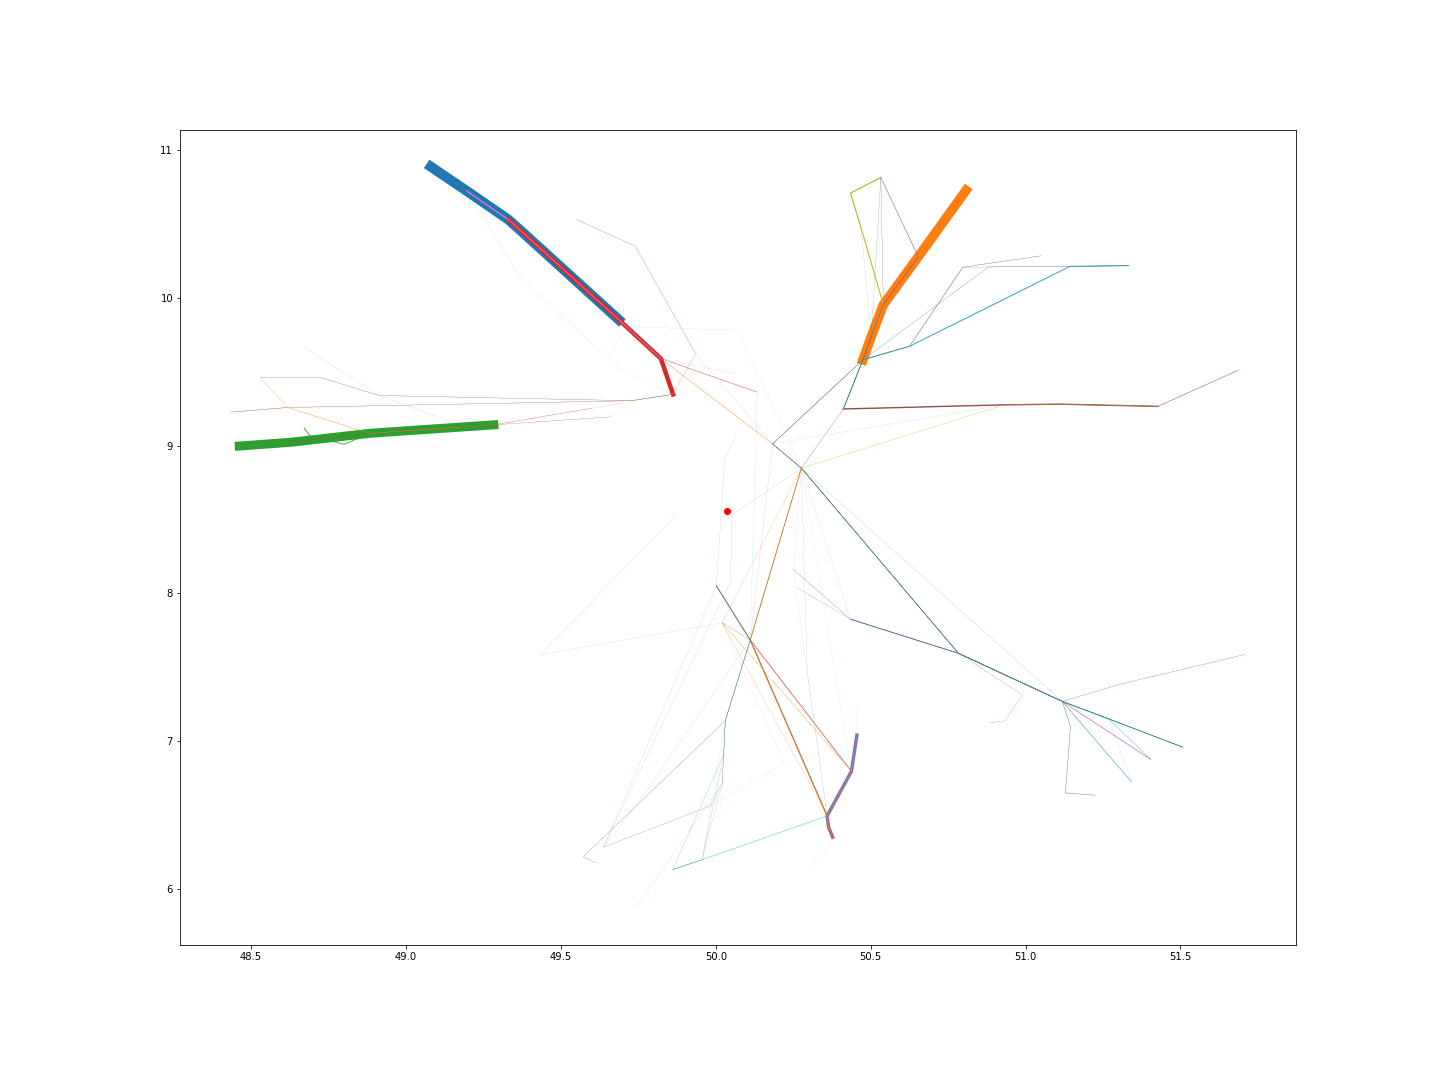
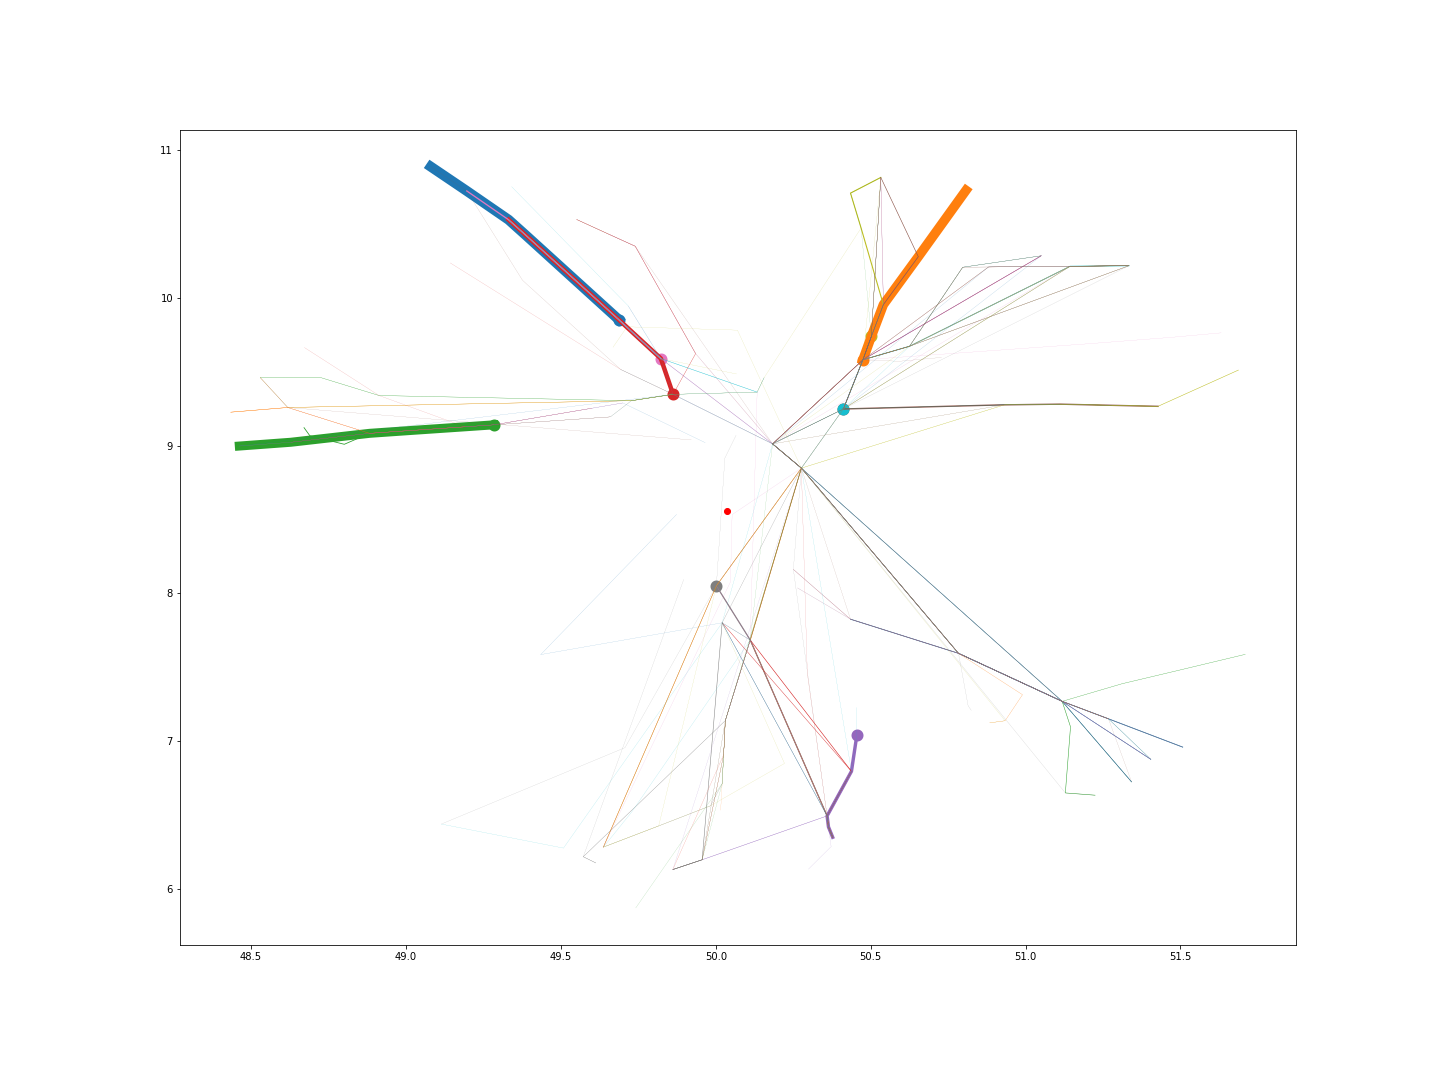
works

diff --git a/trajectory_study.py b/trajectory_study.py
@@ -3,6 +3,7 @@ import numpy as np
 from geopy.distance import geodesic
 import matplotlib.pyplot as plt
 import functions as fun
+import data as da
 
 
 df_ar=pd.read_csv("../data/arrivi_1709.csv")
@@ -34,126 +35,34 @@ df_entry_day1["coor"]=coordinate
 df_entry_day1.shape[0]
 
 p= df_entry_day1.to_csv (r'../data/ppt.csv', index = None, header=True)
-
+df_entry_day1
 """
 Ora procedo con la costruzione del dataset: in questo dataset ci saranno le traiettorie_13_09
 relative ai voli avvenuti il giorno 13 settembre nell'aereoporto di Frankfurt.
 Per semplicità (da migliorare) consideriamo solo i flight con più di 5 waypoint e
 consideriamo solo i primi 5 waypoint [ai fini del tempo è importante il primo]
 """
-df_traj=pd.DataFrame(columnfor i in range(coord_traj.shape[0]):
-    plt.plot(coordinate_x[i,:],coordinate_y[i,:],linewidth=num_percorsi[i]/10,label = "trajectory"+str(i))
-plt.scatter(50.037753, 8.560964,color="red")
-#plt.legend()
-plt.show()s=['flight','wp1','wp2','wp3','wp4','wp5','t1','t2','t3','t4','t5'])
+
+
 i = 0
 names=['flight','wp1','wp2','wp3','wp4','wp5','t1','t2','t3','t4','t5']
-while(i<df_entry_day1.shape[0]-1):
-    aereo = df_entry_day1.iloc[i]["ifps_id"]
-    row=[aereo,'None','None','None','None','None','None','None','None','None','None']
-    print("lavoriamo su questo aereo: ",aereo)
-    cont = 1  # numero di stack relative a questo aereoporto
-    j = i #da cove iniziamo a contare
-    while(cont<=4 and aereo == df_entry_day1.iloc[j+1]["ifps_id"]):
-        j = j+1 # andiamo avanti di un indice
-        cont =cont+1 #contiamo gli stack
-    print(cont)
-    if(cont==5):
-        for k in range(cont):
-            #print("k: ",k)
-            #print("i+j-k-1",i+j-k-1)
-            row[1+k] = df_entry_day1.iloc[i+cont-k-1]["sid"]
-            row[1+k+5]=df_entry_day1.iloc[i+cont-k-1]["time"]
-        df_traj=df_traj.append(dict(zip(names,row)),ignore_index = True)
-        i=j
-        while (i<=df_entry_day1.shape[0]-2 and df_entry_day1.iloc[i]["ifps_id"]==df_entry_day1.iloc[i+1]["ifps_id"]):
-            i+=1
-        i+=1
-    else:
-        i=j
-        #while (i<=df_entry_day1.shape[0]-2 and df_entry_day1.iloc[i]["ifps_id"]==df_entry_day1.iloc[i+1]["ifps_id"]):
-        #    i+=1
-        i+=1
-    print(i)
+df_traj = da.creation_data_waypoint(df_entry_day1,names)
+df_traj
+
+
+
+
 
 
 """
 Al dataset creato aggiungo gli arrivi, contenuti nel dataset df_ar
 """
-df_traj
-Frankfurt_cond = df_ar["D"]=="EDDF"
-df_ar_frank = df_ar[Frankfurt_cond]
-df_ar_frank
+arr = pd.read_csv("../data/arr_frankfurt_13_09_17.csv")
 
+arr
+df_traj = da.arrival_matching(df_traj,arr)
 
-arr_date = []
-arr_land = []
-for i in range(df_ar_frank.shape[0]):
-    temp = df_ar_frank.iloc[i]["arr_time"]
-    temp=temp.split(" ")
-    arr_date.append(temp[0])
-    arr_land.append(temp[1])
-
-
-df_ar_frank["date"]=arr_date
-df_ar_frank["time"]=arr_land
-
-df_ar_frank
-
-df_ar_frank= df_ar_frank.drop(columns=["O","arr_time"])
-
-df_ar_frank.rename(columns={'ifps_id':'flight'},inplace=True)
-
-date_condition = df_ar_frank["date"]=="2017-09-13"
-df_ar_frank_day1 = df_ar_frank[date_condition]
-
-
-df_ar_frank_day1
-
-
-arr_frankfurt_13_09_17 = df_ar_frank_day1.to_csv(r'../data/arr_frankfurt_13_09_17.csv',index = None, header=True)
-
-
-
-arrivi = [] # non so se serve però intanto lo metto
-arrivi
-voli = []
-#ora la parte più difficile
-for i in range(df_traj.shape[0]):
-    flight = df_traj.iloc[i]["flight"]
-    cont = 0
-    for j in range(df_ar_frank_day1.shape[0]):
-        aereo = df_ar_frank_day1.iloc[j]["flight"]
-        if(aereo==flight):
-            cont = 1
-            temp = df_ar_frank_day1.iloc[j]["time"]
-            arrivi.df_ar.iloc[i]["date"]append(temp)
-    if(cont==0):
-        arrivi.append("None")
-
-    print(cont)
-
-df_traj["arrival"] = arrivi
-
-
-df_traj
-
-arrivi = df_traj.to_csv(r'../data/arrivi_13_09.csv',index = None, header=True)
-
-#controllo
-"""
-for i in range(df_traj.shape[0]):
-    if(df_traj.iloc[i]["arrival"]!="None"):
-        b = fun.time_to_sec(df_traj.iloc[i]["arrival"])
-        a = fun.time_to_sec(df_traj.iloc[i]["t1"])
-        if(b-a<0):
-            print("problema alla riga ",i)
-    else:
-        continue
-"""
-
-
-#df_traj rappresenta i primi 5 waypoints e i vari tempi
+#df_traj rappresenta i primi 5 waypoints e i vari tempi + tempo arrivo
 #ora aggiungo le tempistiche
 tempistiche = []
 for i in  range(df_traj.shape[0]):
@@ -168,11 +77,7 @@ for i in  range(df_traj.shape[0]):
 
 "aggiungo anche i tempi di arrivo"
 df_traj["tempi di arrivo"] = tempistiche
-
-######################################
-
 df_traj
-
 traiettorie_13_09 = df_traj.to_csv(r'../data/traiettorie_13_09.csv',index = None, header=True)
 
 none_cond = df_traj["arrival"]!="None"
@@ -213,19 +118,13 @@ tr_dict
 
 percorsi = list(tr_dict.keys()) #lista di tutte le pox traiettorie
 num_percorsi = list(tr_dict.values()) #lista del numero di volte in cui le traiettorie si presentano
-num_percorsi
 len(percorsi)
-
+num_percorsi
 """
 Ora creo un dict,chiamato wp_coord, che ha come chiavi tutti i pox waypoints
 e come valori le loro coordinate
 """
-
 wp_coord ={}
-
-#riprendo il dataframe  df_entry_day1
-df_entry_day1["sid"]plt.savefig('foo.png')
-
 for i in range(df_entry_day1.shape[0]):
     sid = df_entry_day1.iloc[i]["sid"]
     if sid not in wp_coord:
@@ -287,24 +186,113 @@ coordinate_y = np.zeros((coord_traj.shape[0],5))
 #provo a plottare tutti i perorsi
 for i in range(coord_traj.shape[0]):
     tr = coord_traj.iloc[i]
-    coordinate_x[i,0]=tr["coord1"][0]
-    coordinate_x[i,1]=tr["coord2"][0]
-    coordinate_x[i,2]=tr["coord3"][0]
-    coordinate_x[i,3]=tr["coord4"][0]
-    coordinate_x[i,4]=tr["coord5"][0]
-    coordinate_y[i,0]=tr["coord1"][1]
-    coordinate_y[i,1]=tr["coord2"][1]
-    coordinate_y[i,2]=tr["coord3"][1]
-    coordinate_y[i,3]=tr["coord4"][1]
-    coordinate_y[i,4]=tr["coord5"][1]
+    if(tr["wp1"]!="None" and tr["wp2"]!="None" and tr["wp3"]!="None" and tr["wp4"]!="None" and tr["wp5"]!="None"):
+        coordinate_x[i,0]=tr["coord1"][0]
+        coordinate_x[i,1]=tr["coord2"][0]
+        coordinate_x[i,2]=tr["coord3"][0]
+        coordinate_x[i,3]=tr["coord4"][0]
+        coordinate_x[i,4]=tr["coord5"][0]
+        coordinate_y[i,0]=tr["coord1"][1]
+        coordinate_y[i,1]=tr["coord2"][1]
+        coordinate_y[i,2]=tr["coord3"][1]
+        coordinate_y[i,3]=tr["coord4"][1]
+        coordinate_y[i,4]=tr["coord5"][1]
 
+    if(tr["wp1"]!="None" and tr["wp2"]!="None" and tr["wp3"]!="None" and
+        tr["wp4"]!="None" and tr["wp5"]=="None"):
+        coordinate_x[i,0]=tr["coord1"][0]
+        coordinate_x[i,1]=tr["coord2"][0]
+        coordinate_x[i,2]=tr["coord3"][0]
+        coordinate_x[i,3]=tr["coord4"][0]
+
+        coordinate_y[i,0]=tr["coord1"][1]
+        coordinate_y[i,1]=tr["coord2"][1]
+        coordinate_y[i,2]=tr["coord3"][1]
+        coordinate_y[i,3]=tr["coord4"][1]
+
+    if(tr["wp1"]!="None" and tr["wp2"]!="None" and tr["wp3"]!="None" and
+        tr["wp4"]=="None" and tr["wp5"]=="None"):
+        coordinate_x[i,0]=tr["coord1"][0]
+        coordinate_x[i,1]=tr["coord2"][0]
+        coordinate_x[i,2]=tr["coord3"][0]
+
+
+        coordinate_y[i,0]=tr["coord1"][1]
+        coordinate_y[i,1]=tr["coord2"][1]
+        coordinate_y[i,2]=tr["coord3"][1]
+
+    else:
+        continue
+
+tr_dict
+wp_coord
+
+
+"""
+************************************
+"""
+"""
+PUNTI IMPORTANTI
+"""
+
+"""
+**************************************
+"""
+
+lista_traiet = list(tr_dict.keys())
+lista_traiet
+wp_imp = []
+for i in range(10):
+    temp = lista_traiet[i]
+    temp = temp.replace("-"," ")
+    temp = temp.split(" ")
+    wp_imp.append(temp[0])
+print("*****")
+wp_imp
+coord_imp = []
+for i in range(len(wp_imp)):
+    coord_imp.append(wp_coord[wp_imp[i]])
+
+entrance_dict = dict(zip(wp_imp,coord_imp))
+entrance_dict
+entrance_dict['KERAX'][0]
+
+
+coordinate_x[1,:]
+coordinate_x[1,:-2]
 plt.figure(figsize=(20,15))
 for i in range(coord_traj.shape[0]):
-    plt.plot(coordinate_x[i,:],coordinate_y[i,:],linewidth=num_percorsi[i]/10,label = "trajectory"+str(i))
+    tr = coord_traj.iloc[i]
+    if(i<3):
+        if(tr["wp1"]!="None" and tr["wp2"]!="None" and tr["wp3"]!="None" and tr["wp4"]!="None" and tr["wp5"]!="None"):
+            plt.plot(coordinate_x[i,:],coordinate_y[i,:],linewidth=num_percorsi[i]/10,label = "trajectory "+str(i))
+
+        if(tr["wp1"]!="None" and tr["wp2"]!="None" and tr["wp3"]!="None" and
+            tr["wp4"]!="None" and tr["wp5"]=="None"):
+                plt.plot(coordinate_x[i,:-1],coordinate_y[i,:-1],linewidth=num_percorsi[i]/10)
+        if(tr["wp1"]!="None" and tr["wp2"]!="None" and tr["wp3"]!="None" and
+            tr["wp4"]=="None" and tr["wp5"]=="None"):
+                plt.plot(coordinate_x[i,:-2],coordinate_y[i,:-2],linewidth=num_percorsi[i]/10)
+        else:
+            continue
+    if(i>=3):
+        if(tr["wp1"]!="None" and tr["wp2"]!="None" and tr["wp3"]!="None" and tr["wp4"]!="None" and tr["wp5"]!="None"):
+            plt.plot(coordinate_x[i,:],coordinate_y[i,:],linewidth=num_percorsi[i]/10)
+
+        if(tr["wp1"]!="None" and tr["wp2"]!="None" and tr["wp3"]!="None" and
+            tr["wp4"]!="None" and tr["wp5"]=="None"):
+                plt.plot(coordinate_x[i,:-1],coordinate_y[i,:-1],linewidth=num_percorsi[i]/10)
+        if(tr["wp1"]!="None" and tr["wp2"]!="None" and tr["wp3"]!="None" and
+            tr["wp4"]=="None" and tr["wp5"]=="None"):
+                plt.plot(coordinate_x[i,:-2],coordinate_y[i,:-2],linewidth=num_percorsi[i]/10)
+        else:
+            continue
 plt.scatter(50.037753, 8.560964,color="red")
+for i in wp_imp:
+    plt.scatter(entrance_dict[i][0], entrance_dict[i][1],linewidth = 6,label = i)
 
 plt.savefig("plot/traj_1.png")
-#plt.legend()
+plt.legend()
 plt.show()
 
 

diff --git a/plot.py b/plot.py
@@ -57,3 +57,13 @@ for i in range(coord_traj.shape[0]):
 plt.scatter(50.037753, 8.560964,color="red")
 
 plt.savefig("plot/traj_1.png")
+
+def plotting_trajectory(df_traj,number_of_wp):
+    coordinate_x = np.zeros((df_traj.shape[0],number_of_wp))
+    coordinate_y = np.zeros((cdf_traj.shape[0],number_of_wp))
+    numb = []
+    for i in range(1,number_of_wp+1):
+        numb.append(str(i))
+    for i in range(coord_traj.shape[0]):
+        tr = coord_traj.iloc[i]
+        

diff --git a/data.py b/data.py
@@ -172,6 +172,9 @@ def arrival_matching(df_wp,df_arrivi,col_flights = "flight"):
     return new_df
 
 
+def delete_useless_aircraft(df,cond):
+    df = df[cond]
+    return df
 
 
 
